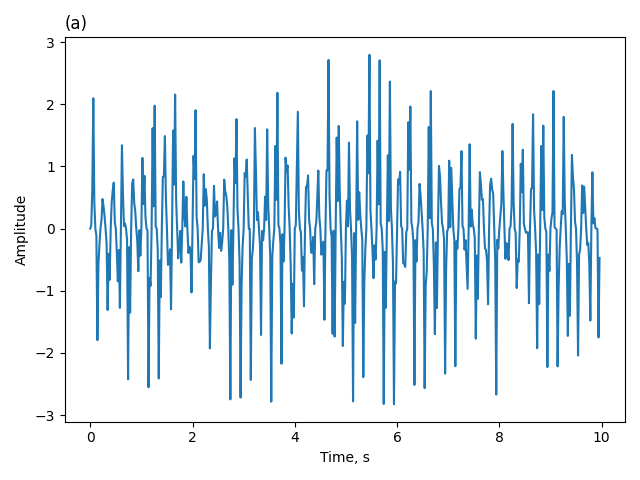
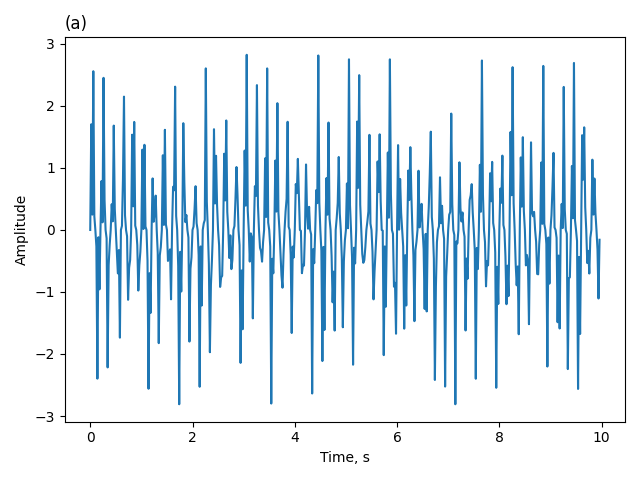
added curve projection figure and set random seed

diff --git a/manuscript/src/manuscript_figures.py b/manuscript/src/manuscript_figures.py
@@ -2,6 +2,8 @@ import numpy as np
 import matplotlib.pyplot as plt
 import matplotlib.colors as mcolors
 
+np.random.seed(123456)      # for reproducibility
+
 # computational time complexity sample
 n = np.arange(1,101,1)      # number of terms
 O_2N2 = 2*n**2              # Discrete Fourier Transform
@@ -266,7 +268,7 @@ inset_axs.plot(t, sig1, color=CLRS[1])
 inset_axs.plot(t, sig2, color=CLRS[2])
 inset_axs.set_xlim([0,0.5])
     
-f.tight_layout()
+# f.tight_layout()
 f.savefig("figures/2.noisy_signal_decomposed_inset.png")
 
 # Figure 3
@@ -327,3 +329,29 @@ axs.set_ylim([0,10])
 
 f.tight_layout()
 f.savefig("figures/11.surface_roughness_map.png")
+
+from mpl_toolkits.mplot3d import Axes3D
+
+# Parameters for the 3D surface
+x = np.linspace(1, 5, 50)
+y = np.linspace(1, 5, 50)
+X, Y = np.meshgrid(x, y)
+Z = np.sin(np.sqrt(X**2 + Y**2))  # Curved surface
+z = X*0 - 2
+
+# Create a figure for the 3D plot
+f = plt.figure(figsize=(FIGWIDTH, FIGHEIGHT))
+ax = f.add_subplot(111, projection='3d')
+
+# 3D surface plot
+ax.plot_surface(X, Y, Z, cmap='viridis', edgecolor='none', alpha=0.8)
+ax.plot_surface(X, Y, z, cmap='gist_gray' , alpha=0.5)
+ax.set_xlabel("$x$")
+ax.set_ylabel("$y$")
+ax.set_zlabel("$z$")
+
+# Adjust the z-axis to make space for the projection
+ax.set_zlim(np.min(Z) - 1, np.max(Z))
+
+# f.tight_layout()
+f.savefig("figures/3D_surface_with_projection.png")
